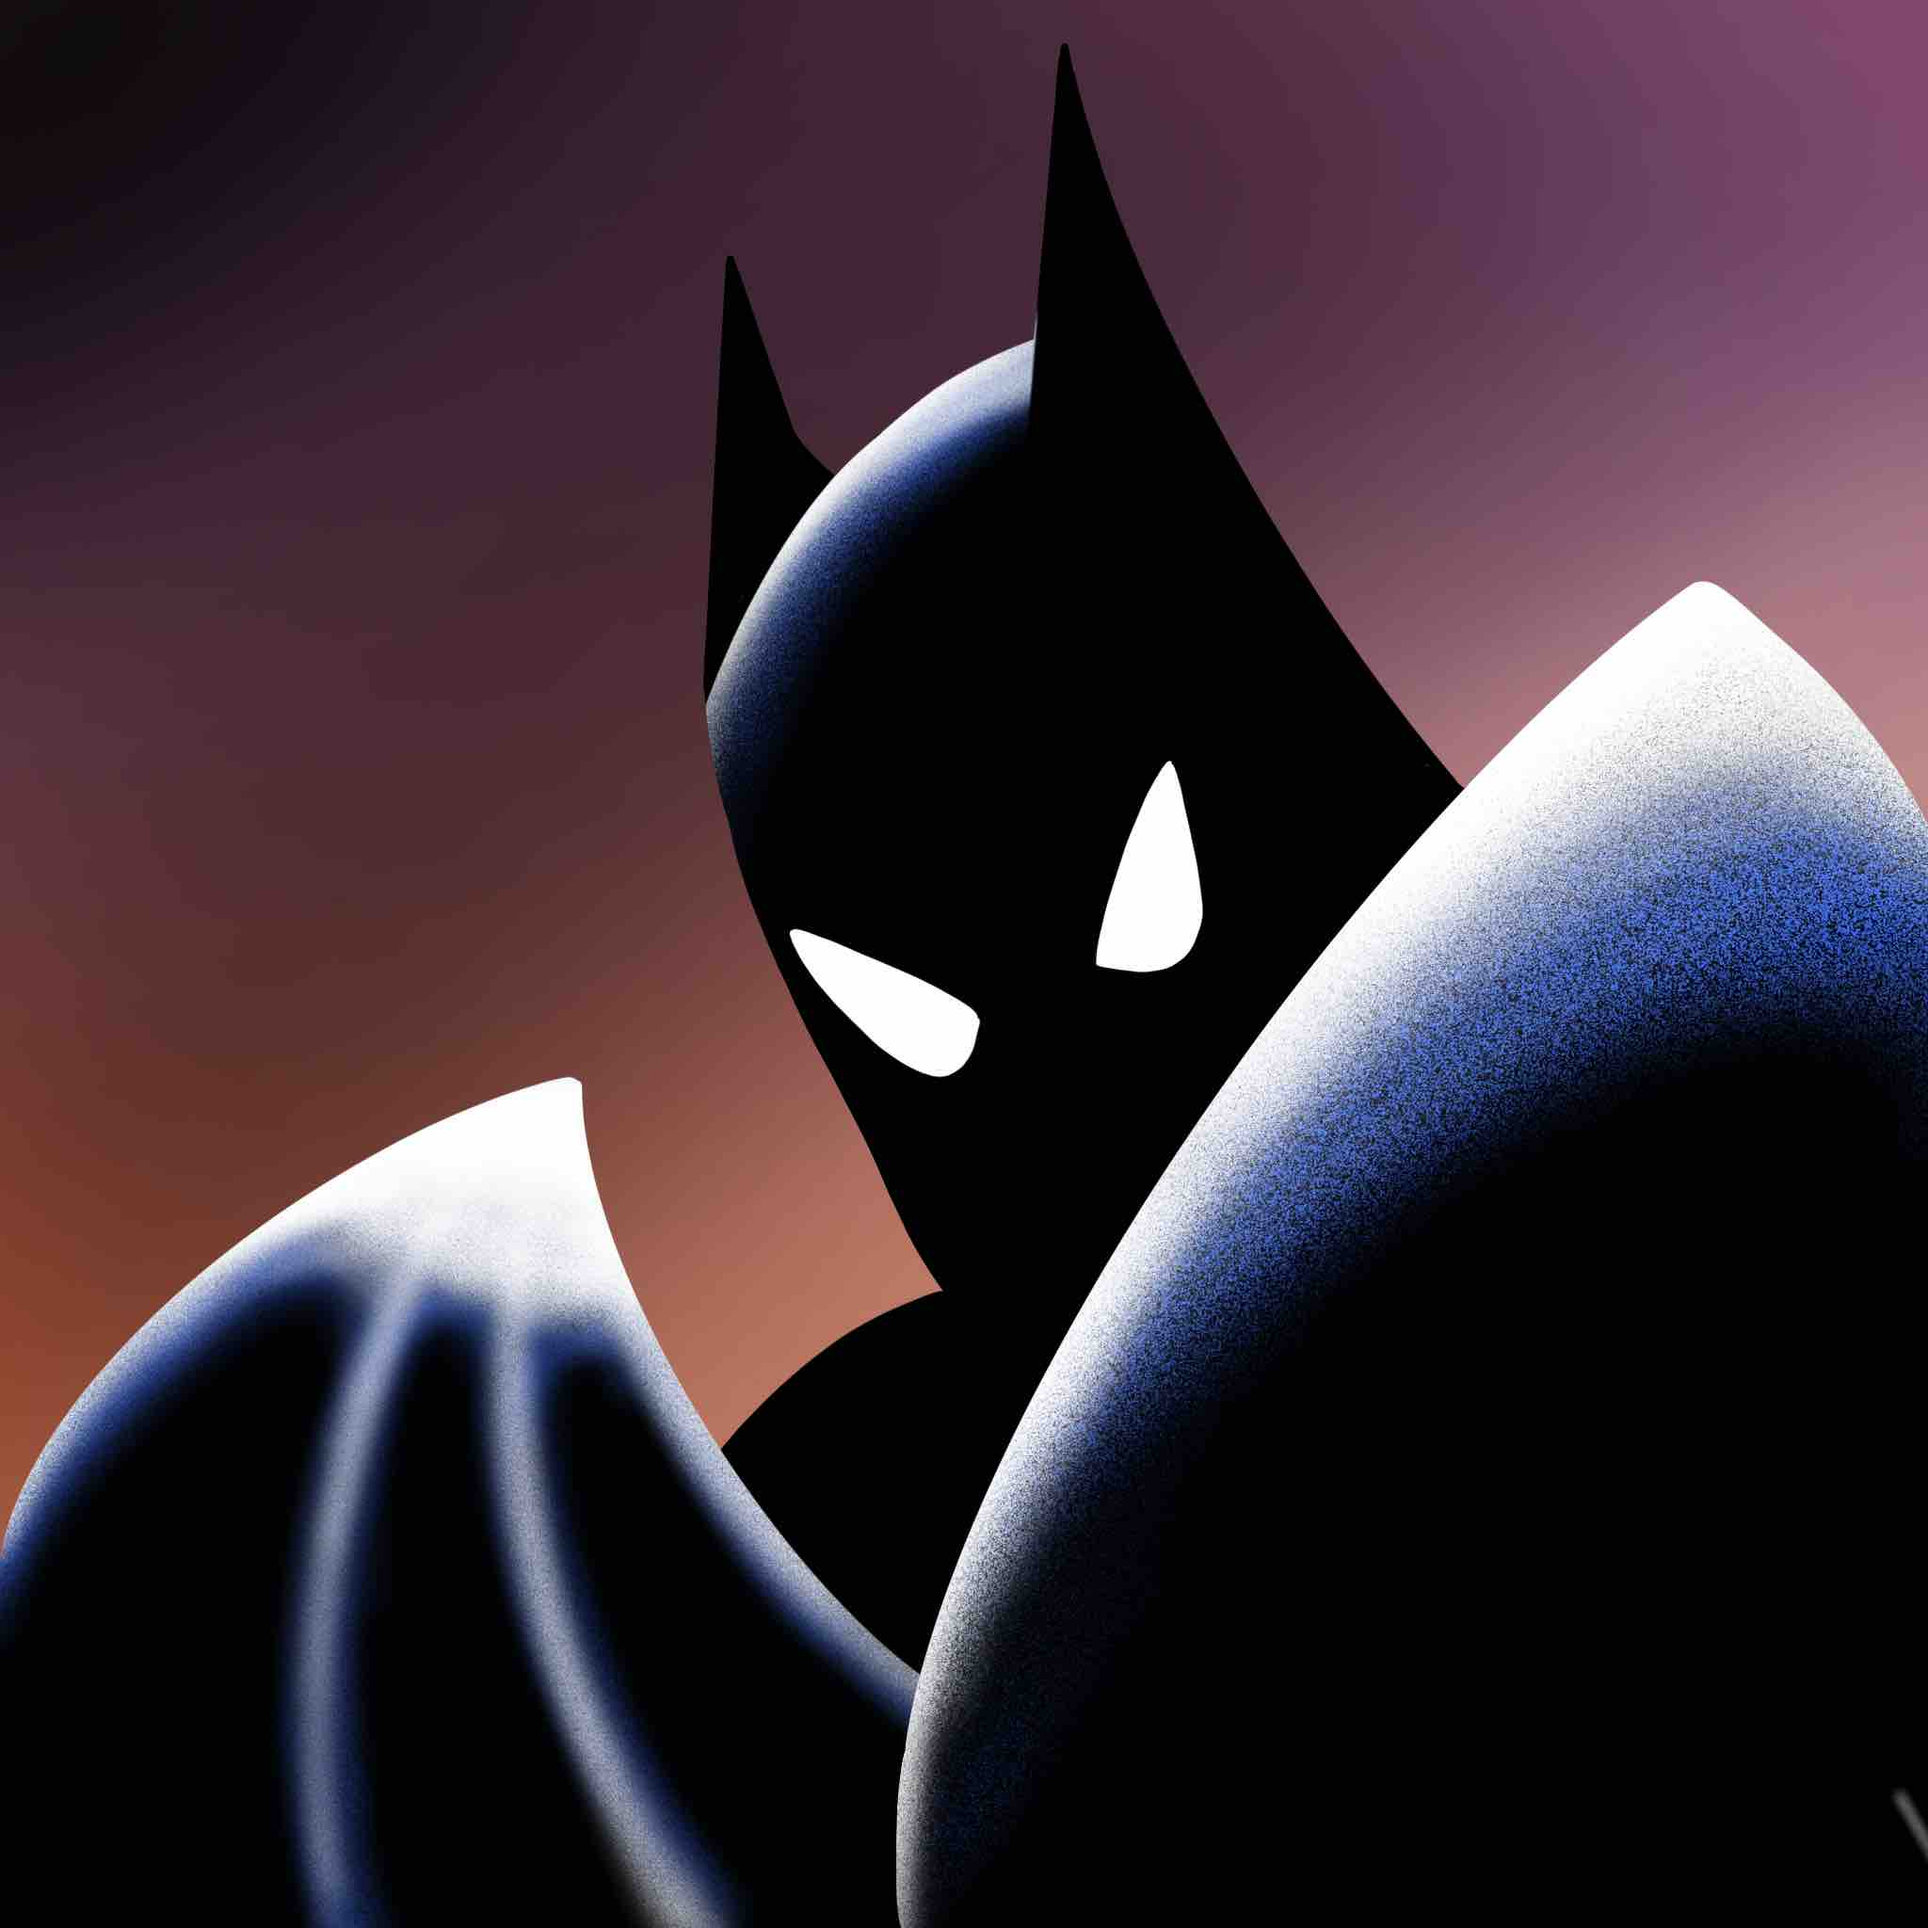
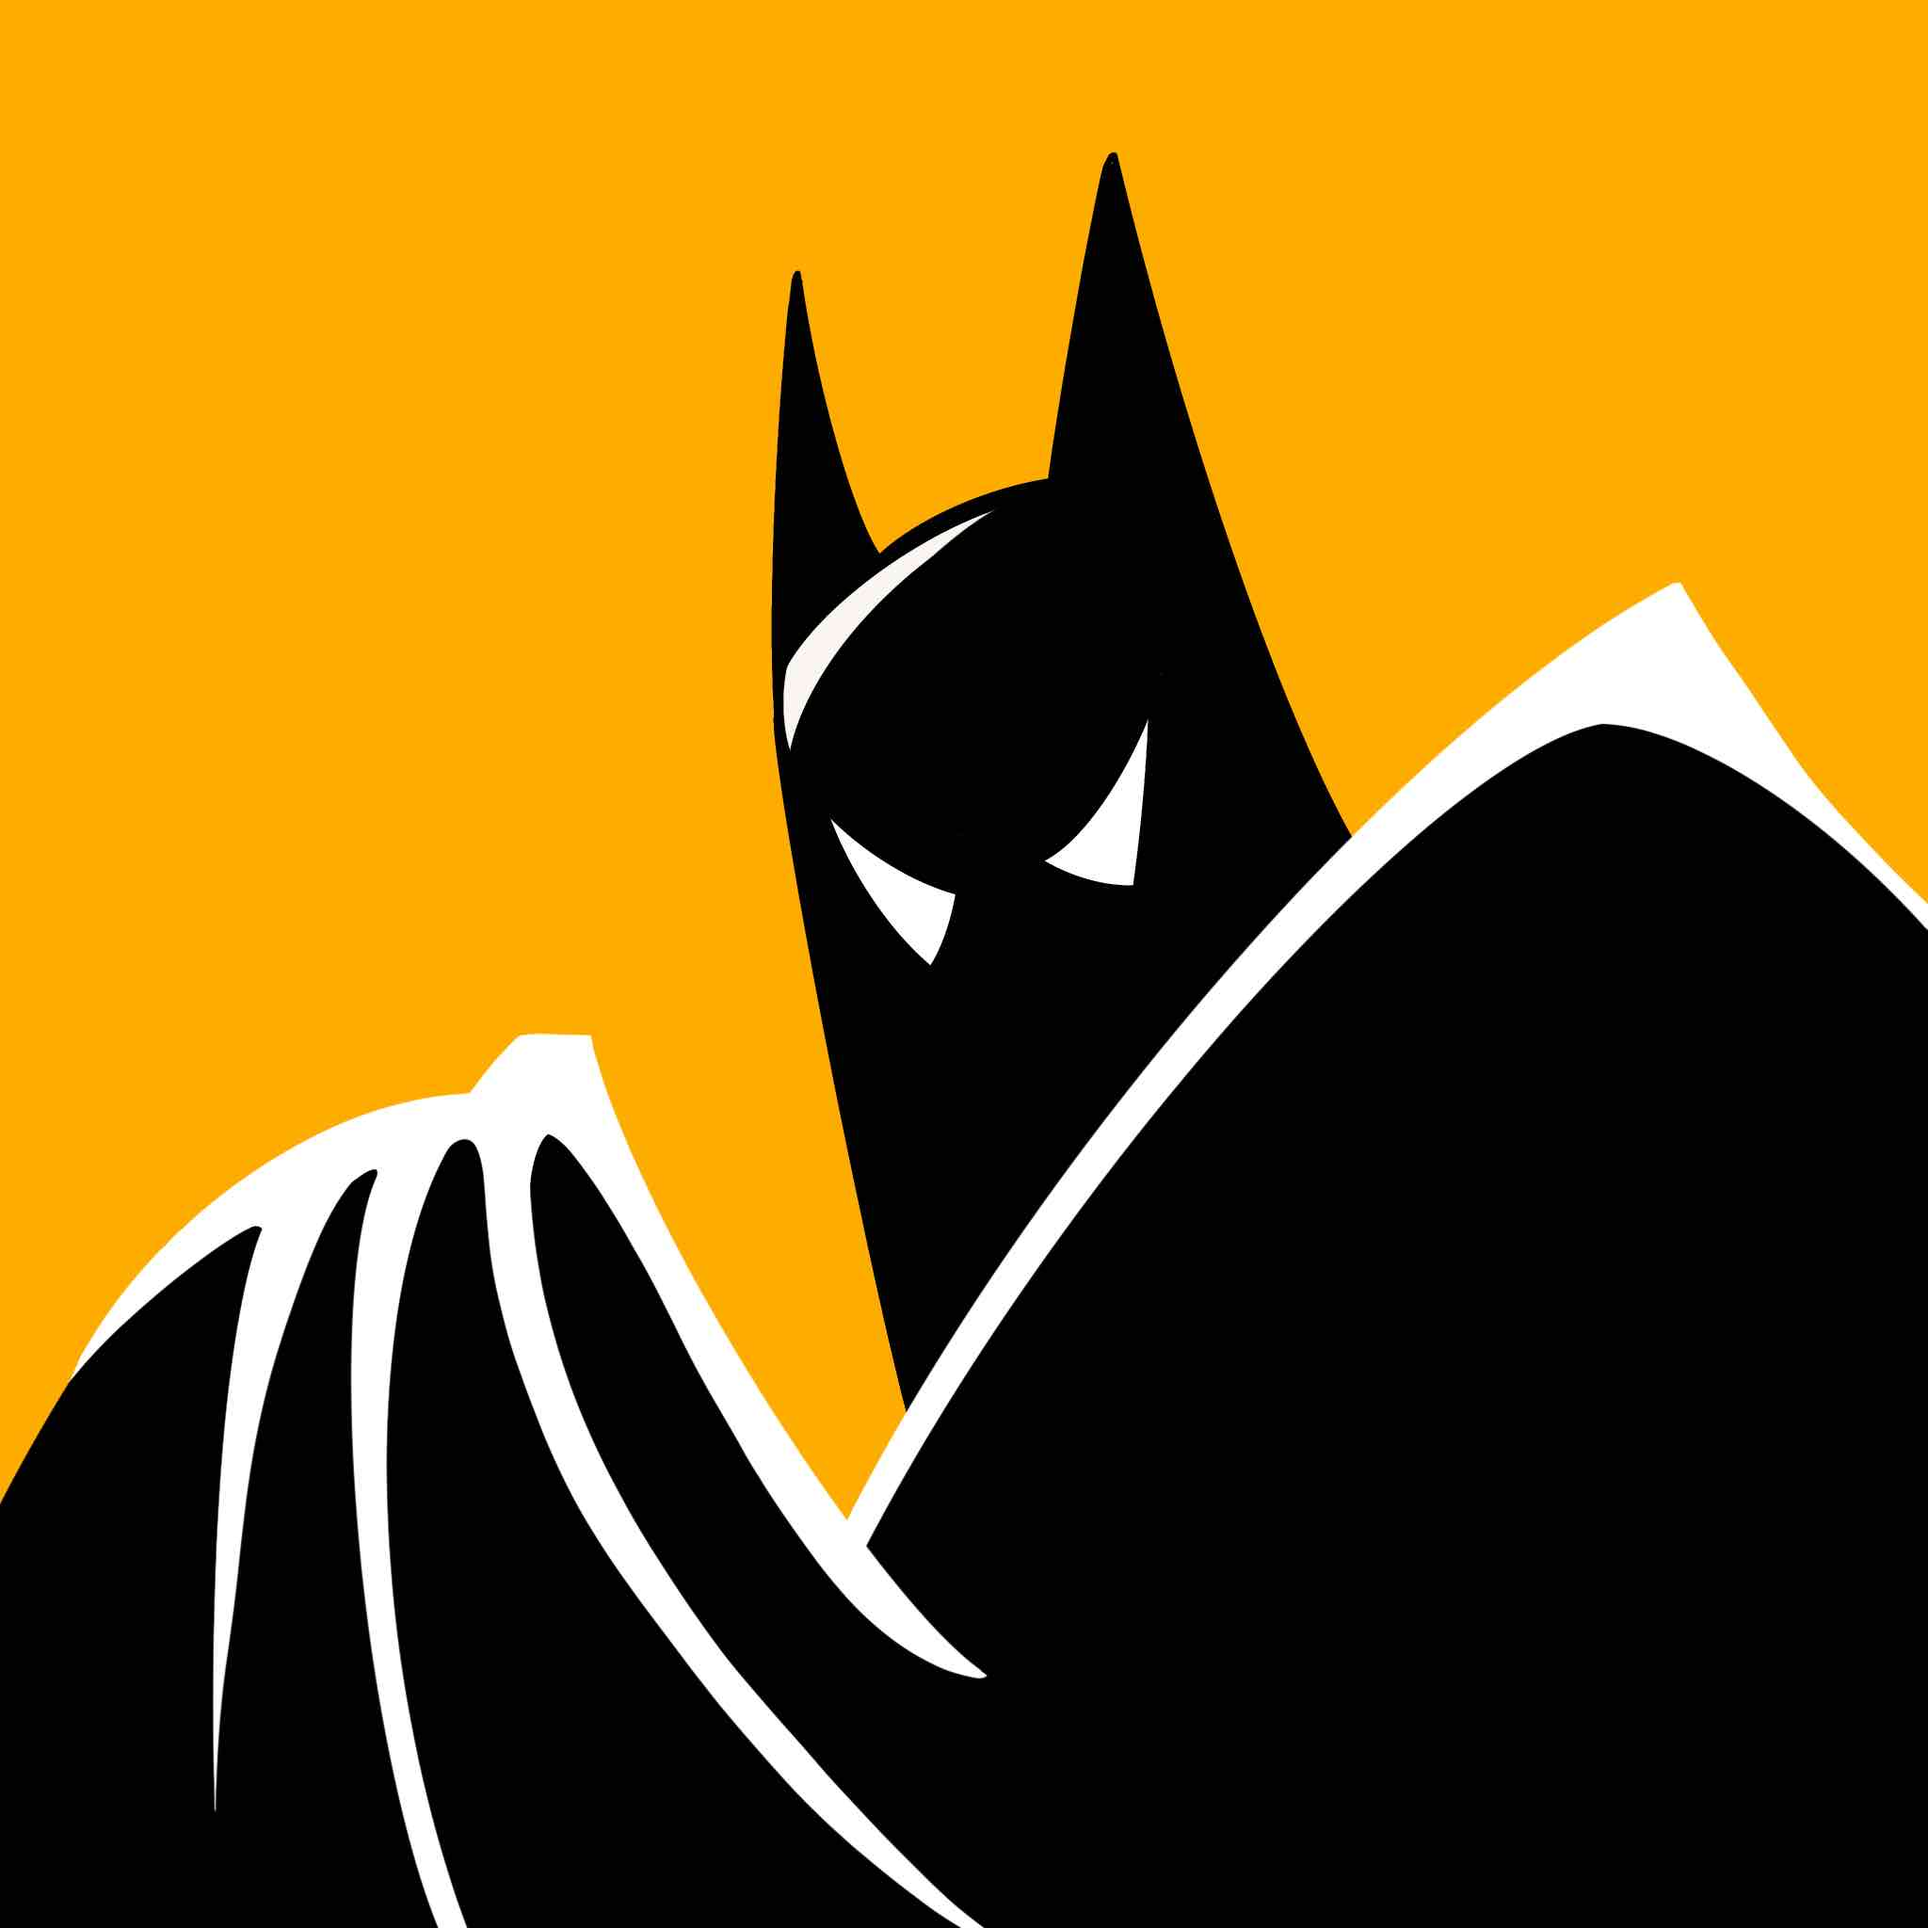
Site updated: 2022-02-20 23:52:16

diff --git a/2020/08/09/lc206-ReverseLinkedList一些乱七八糟的解法/index.html b/2020/08/09/lc206-ReverseLinkedList一些乱七八糟的解法/index.html
@@ -3,7 +3,7 @@
 <head>
   <meta http-equiv="Content-Type" content="text/html; charset=UTF-8">
   <meta http-equiv="X-UA-Compatible" content="IE=edge">
-  <meta name="theme-color" content=#58b77a>
+  <meta name="theme-color" content=#EFAF3B>
   <title>lc206:ReverseLinkedList一些乱七八糟的解法 | 好啵的博客</title>
   <meta name="viewport" content="width=device-width, initial-scale=1">
   <meta name="author" content="haoboxuxu">

diff --git a/2021/10/21/iOS开发-Apple-Silicon下Xcode编译arm64错误/index.html b/2021/10/21/iOS开发-Apple-Silicon下Xcode编译arm64错误/index.html
@@ -3,7 +3,7 @@
 <head>
   <meta http-equiv="Content-Type" content="text/html; charset=UTF-8">
   <meta http-equiv="X-UA-Compatible" content="IE=edge">
-  <meta name="theme-color" content=#58b77a>
+  <meta name="theme-color" content=#EFAF3B>
   <title>iOS开发:Apple Silicon下Xcode编译arm64错误 | 好啵的博客</title>
   <meta name="viewport" content="width=device-width, initial-scale=1">
   <meta name="author" content="haoboxuxu">

diff --git a/2020/04/27/A-self-create-Algorithm-to-link-nodes-in-ARKit/index.html b/2020/04/27/A-self-create-Algorithm-to-link-nodes-in-ARKit/index.html
@@ -3,7 +3,7 @@
 <head>
   <meta http-equiv="Content-Type" content="text/html; charset=UTF-8">
   <meta http-equiv="X-UA-Compatible" content="IE=edge">
-  <meta name="theme-color" content=#58b77a>
+  <meta name="theme-color" content=#EFAF3B>
   <title>A self create Algorithm to link nodes in ARKit | 好啵的博客</title>
   <meta name="viewport" content="width=device-width, initial-scale=1">
   <meta name="author" content="haoboxuxu">

diff --git a/2020/08/18/奇奇怪怪的二分（无营养摸🐟文）/index.html b/2020/08/18/奇奇怪怪的二分（无营养摸🐟文）/index.html
@@ -3,7 +3,7 @@
 <head>
   <meta http-equiv="Content-Type" content="text/html; charset=UTF-8">
   <meta http-equiv="X-UA-Compatible" content="IE=edge">
-  <meta name="theme-color" content=#58b77a>
+  <meta name="theme-color" content=#EFAF3B>
   <title>奇奇怪怪的二分（无营养摸🐟文） | 好啵的博客</title>
   <meta name="viewport" content="width=device-width, initial-scale=1">
   <meta name="author" content="haoboxuxu">

diff --git a/2020/08/27/树除遍历外的一些骚（最后的🐟）/index.html b/2020/08/27/树除遍历外的一些骚（最后的🐟）/index.html
@@ -3,7 +3,7 @@
 <head>
   <meta http-equiv="Content-Type" content="text/html; charset=UTF-8">
   <meta http-equiv="X-UA-Compatible" content="IE=edge">
-  <meta name="theme-color" content=#58b77a>
+  <meta name="theme-color" content=#EFAF3B>
   <title>树除遍历外的一些骚（最后的🐟） | 好啵的博客</title>
   <meta name="viewport" content="width=device-width, initial-scale=1">
   <meta name="author" content="haoboxuxu">

diff --git a/2020/08/22/lc奇奇怪怪的搜索（无营养的🐟）/index.html b/2020/08/22/lc奇奇怪怪的搜索（无营养的🐟）/index.html
@@ -3,7 +3,7 @@
 <head>
   <meta http-equiv="Content-Type" content="text/html; charset=UTF-8">
   <meta http-equiv="X-UA-Compatible" content="IE=edge">
-  <meta name="theme-color" content=#58b77a>
+  <meta name="theme-color" content=#EFAF3B>
   <title>lc奇奇怪怪的搜索（无营养的🐟） | 好啵的博客</title>
   <meta name="viewport" content="width=device-width, initial-scale=1">
   <meta name="author" content="haoboxuxu">

diff --git a/2021/05/10/关于光线追踪-下一周的球体uv坐标/index.html b/2021/05/10/关于光线追踪-下一周的球体uv坐标/index.html
@@ -3,7 +3,7 @@
 <head>
   <meta http-equiv="Content-Type" content="text/html; charset=UTF-8">
   <meta http-equiv="X-UA-Compatible" content="IE=edge">
-  <meta name="theme-color" content=#58b77a>
+  <meta name="theme-color" content=#EFAF3B>
   <title>关于光线追踪:下一周的球体uv坐标 | 好啵的博客</title>
   <meta name="viewport" content="width=device-width, initial-scale=1">
   <meta name="author" content="haoboxuxu">

diff --git a/2021/12/19/iOS开发-Debug之内存图检测循环引用/index.html b/2021/12/19/iOS开发-Debug之内存图检测循环引用/index.html
@@ -3,7 +3,7 @@
 <head>
   <meta http-equiv="Content-Type" content="text/html; charset=UTF-8">
   <meta http-equiv="X-UA-Compatible" content="IE=edge">
-  <meta name="theme-color" content=#58b77a>
+  <meta name="theme-color" content=#EFAF3B>
   <title>iOS开发:Debug之内存图检测循环引用 | 好啵的博客</title>
   <meta name="viewport" content="width=device-width, initial-scale=1">
   <meta name="author" content="haoboxuxu">

diff --git a/2021/12/15/iOS开发-CADisplayLink的循环引用问题/index.html b/2021/12/15/iOS开发-CADisplayLink的循环引用问题/index.html
@@ -3,7 +3,7 @@
 <head>
   <meta http-equiv="Content-Type" content="text/html; charset=UTF-8">
   <meta http-equiv="X-UA-Compatible" content="IE=edge">
-  <meta name="theme-color" content=#58b77a>
+  <meta name="theme-color" content=#EFAF3B>
   <title>iOS开发:CADisplayLink的循环引用问题 | 好啵的博客</title>
   <meta name="viewport" content="width=device-width, initial-scale=1">
   <meta name="author" content="haoboxuxu">

diff --git a/2019/03/13/前序-中序遍历还原二叉树/index.html b/2019/03/13/前序-中序遍历还原二叉树/index.html
@@ -3,7 +3,7 @@
 <head>
   <meta http-equiv="Content-Type" content="text/html; charset=UTF-8">
   <meta http-equiv="X-UA-Compatible" content="IE=edge">
-  <meta name="theme-color" content=#58b77a>
+  <meta name="theme-color" content=#EFAF3B>
   <title>前序/中序遍历还原二叉树 | 好啵的博客</title>
   <meta name="viewport" content="width=device-width, initial-scale=1">
   <meta name="author" content="haoboxuxu">

diff --git a/2021/12/08/iOS开发-Cocoapods创建到发包/index.html b/2021/12/08/iOS开发-Cocoapods创建到发包/index.html
@@ -3,7 +3,7 @@
 <head>
   <meta http-equiv="Content-Type" content="text/html; charset=UTF-8">
   <meta http-equiv="X-UA-Compatible" content="IE=edge">
-  <meta name="theme-color" content=#58b77a>
+  <meta name="theme-color" content=#EFAF3B>
   <title>iOS开发:Cocoapods创建到发包 | 好啵的博客</title>
   <meta name="viewport" content="width=device-width, initial-scale=1">
   <meta name="author" content="haoboxuxu">

diff --git a/2019/04/19/Definition-for-singly-linked-list/index.html b/2019/04/19/Definition-for-singly-linked-list/index.html
@@ -3,7 +3,7 @@
 <head>
   <meta http-equiv="Content-Type" content="text/html; charset=UTF-8">
   <meta http-equiv="X-UA-Compatible" content="IE=edge">
-  <meta name="theme-color" content=#58b77a>
+  <meta name="theme-color" content=#EFAF3B>
   <title>Definition for singly-linked list | 好啵的博客</title>
   <meta name="viewport" content="width=device-width, initial-scale=1">
   <meta name="author" content="haoboxuxu">
